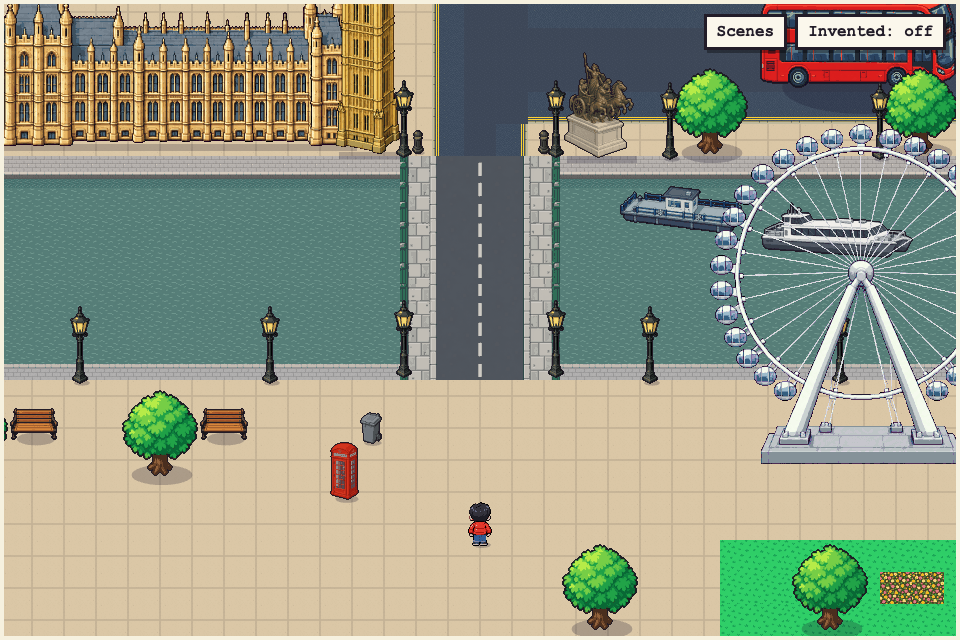
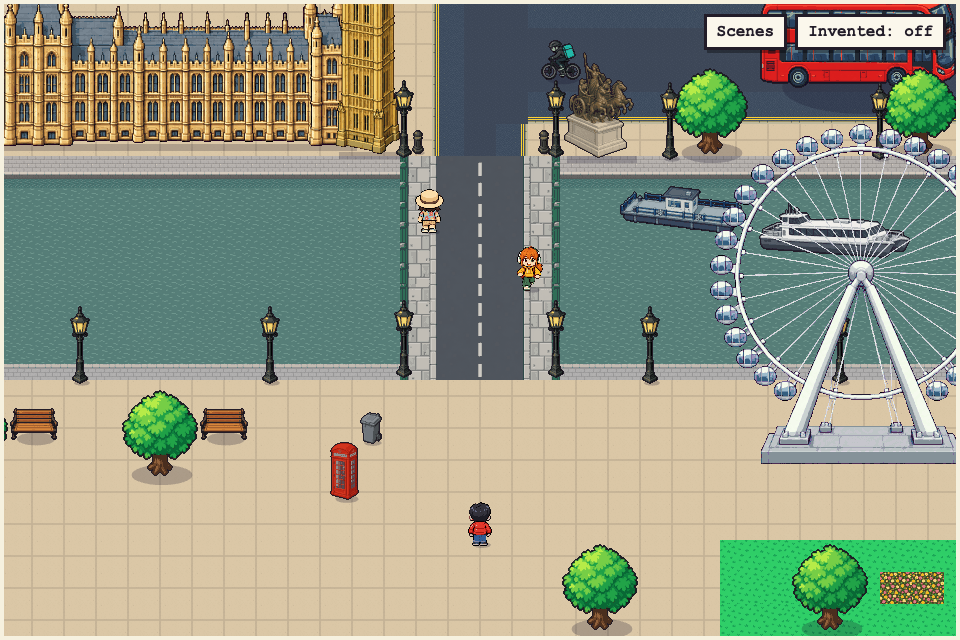
Demo: pedestrians on Westminster Bridge and the Queen's Walk, Embankment traffic

diff --git a/public/london-25d/scenes/westminster/scene.js b/public/london-25d/scenes/westminster/scene.js
@@ -49,7 +49,7 @@
     assets: ["palace", "big_ben", "portcullis", "london_eye", "boudica", "bus_stop", "catamaran", "pier", "shard", "statue", "tube_entrance",
       "tile_water", "tile_embankment", "tile_embankment_near", "tile_bridge", "tile_kerb_l", "tile_kerb_r",
       "tile_paving", "tile_asphalt", "tile_kerb", "tile_grass", "tile_flowers",
-      "tree", "hedge", "bench", "lamp", "bollard", "phone_box", "bin_grey", "bus"],
+      "tree", "hedge", "bench", "lamp", "bollard", "phone_box", "bin_grey", "bus", "npc_tourist", "npc_student", "npc_commuter", "npc_jogger", "npc_elder", "black_cab", "delivery_bike"],
     transit: [{ mode: "bus", route: "24", destination: "Hampstead Heath", title: "BUS 24 → HAMPSTEAD HEATH",
       caption: "Parliament Square → Tottenham Court Road · via Whitehall & Trafalgar Square", color: "#d8342c", frames: 260 }],
 
@@ -169,6 +169,18 @@
       const stopX = BX1 - 26;
       w.add("bus_stop", stopX, ROW_TOP * T + 26, { depth: 6, foot: [img.bus_stop.width / 2 - 3, 6], talk: TEXT.busStop, invented: true });
       w.exit(BX0 + 40, ROW_TOP * T + 4, BX1 - BX0 - 80, 14, { label: "BUS 24" });
+
+      // crowds on the bridge and the Queen's Walk, traffic on the Embankment (generic people, invented)
+      const qy = (ROW_NEAR_EDGE + 5) * T + 20;
+      w.npc("npc_tourist", { path: [[BX0 + 30, (ROW_NEAR_EDGE + 1) * T - 8], [BX0 + 30, (ROW_FAR_EDGE + 1) * T + 8]], speed: 0.45, pause: 80,
+        talk: "A tourist, phone out: \"Can you get Big Ben and the Eye in one shot from here? Almost!\"" });
+      w.npc("npc_student", { path: [[BX1 - 30, (ROW_FAR_EDGE + 1) * T + 8], [BX1 - 30, (ROW_NEAR_EDGE + 1) * T - 8]], speed: 0.6, delay: 150 });
+      w.npc("npc_commuter", { path: [[2 * T, qy], [BX0 - 2 * T, qy]], speed: 0.7 });
+      w.npc("npc_jogger", { path: [[BX1 + 2 * T, qy + 34], [(COLS - 2) * T, qy + 34]], speed: 1.2,
+        talk: "A jogger on the Queen's Walk: \"Best run in London. River the whole way.\"" });
+      w.npc("npc_elder", { path: [[6 * T, qy + 50], [12 * T, qy + 50]], speed: 0.25, pause: 160 });
+      w.traffic("black_cab", { y: ROW_FAR_ROAD * T + 26, speed: 1.5, gap: 260 });
+      w.traffic("delivery_bike", { y: (ROW_FAR_ROAD + 1) * T + 20, speed: -1.1, flip: true, gap: 420, offset: 500 });
       w.add("phone_box", BX1 - 6, ROW_TOP * T + 74, { depth: 12, talk: TEXT.phone, invented: true });
       for (const bx of [BX0 + 12, BX1 - 22]) w.add("bollard", bx, ROW_FAR_EDGE * T - 2, { invented: true });
       // trees along the top edge (towards Parliament Square and Whitehall Gardens)
